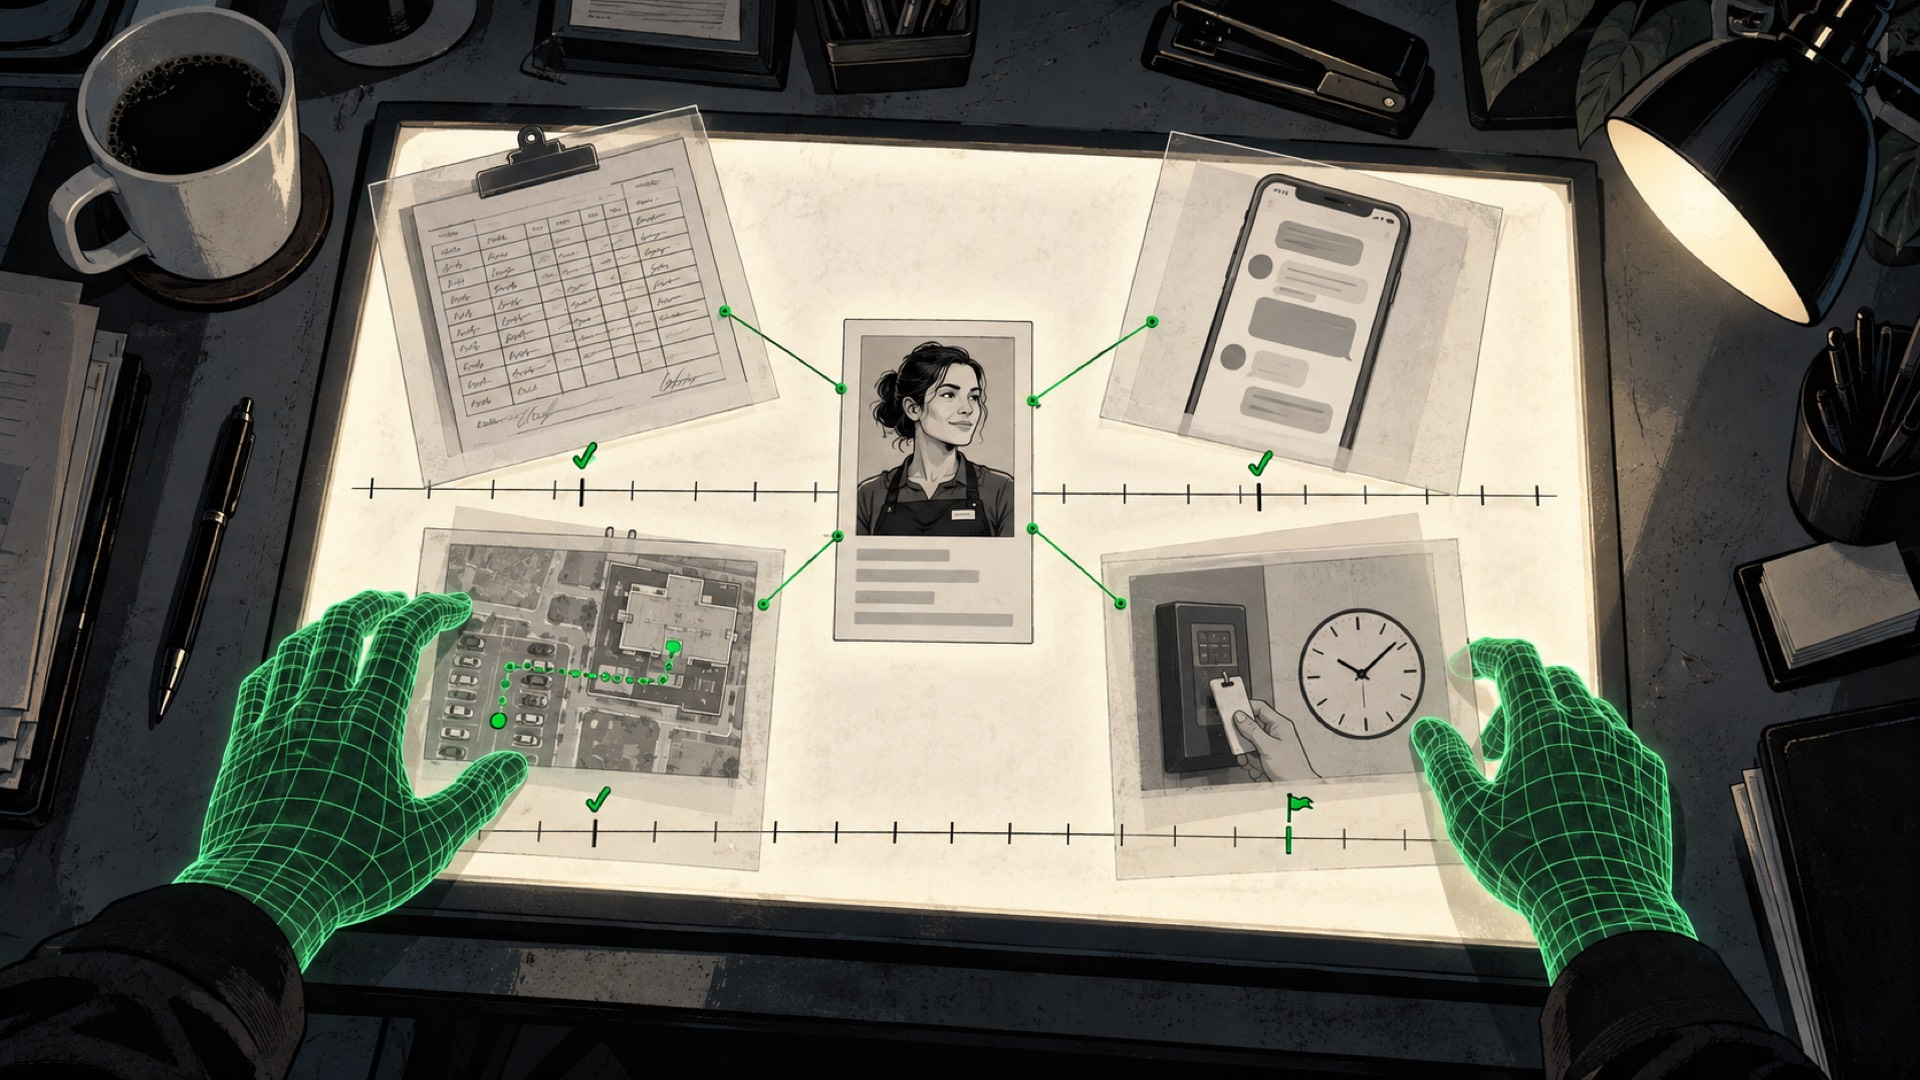
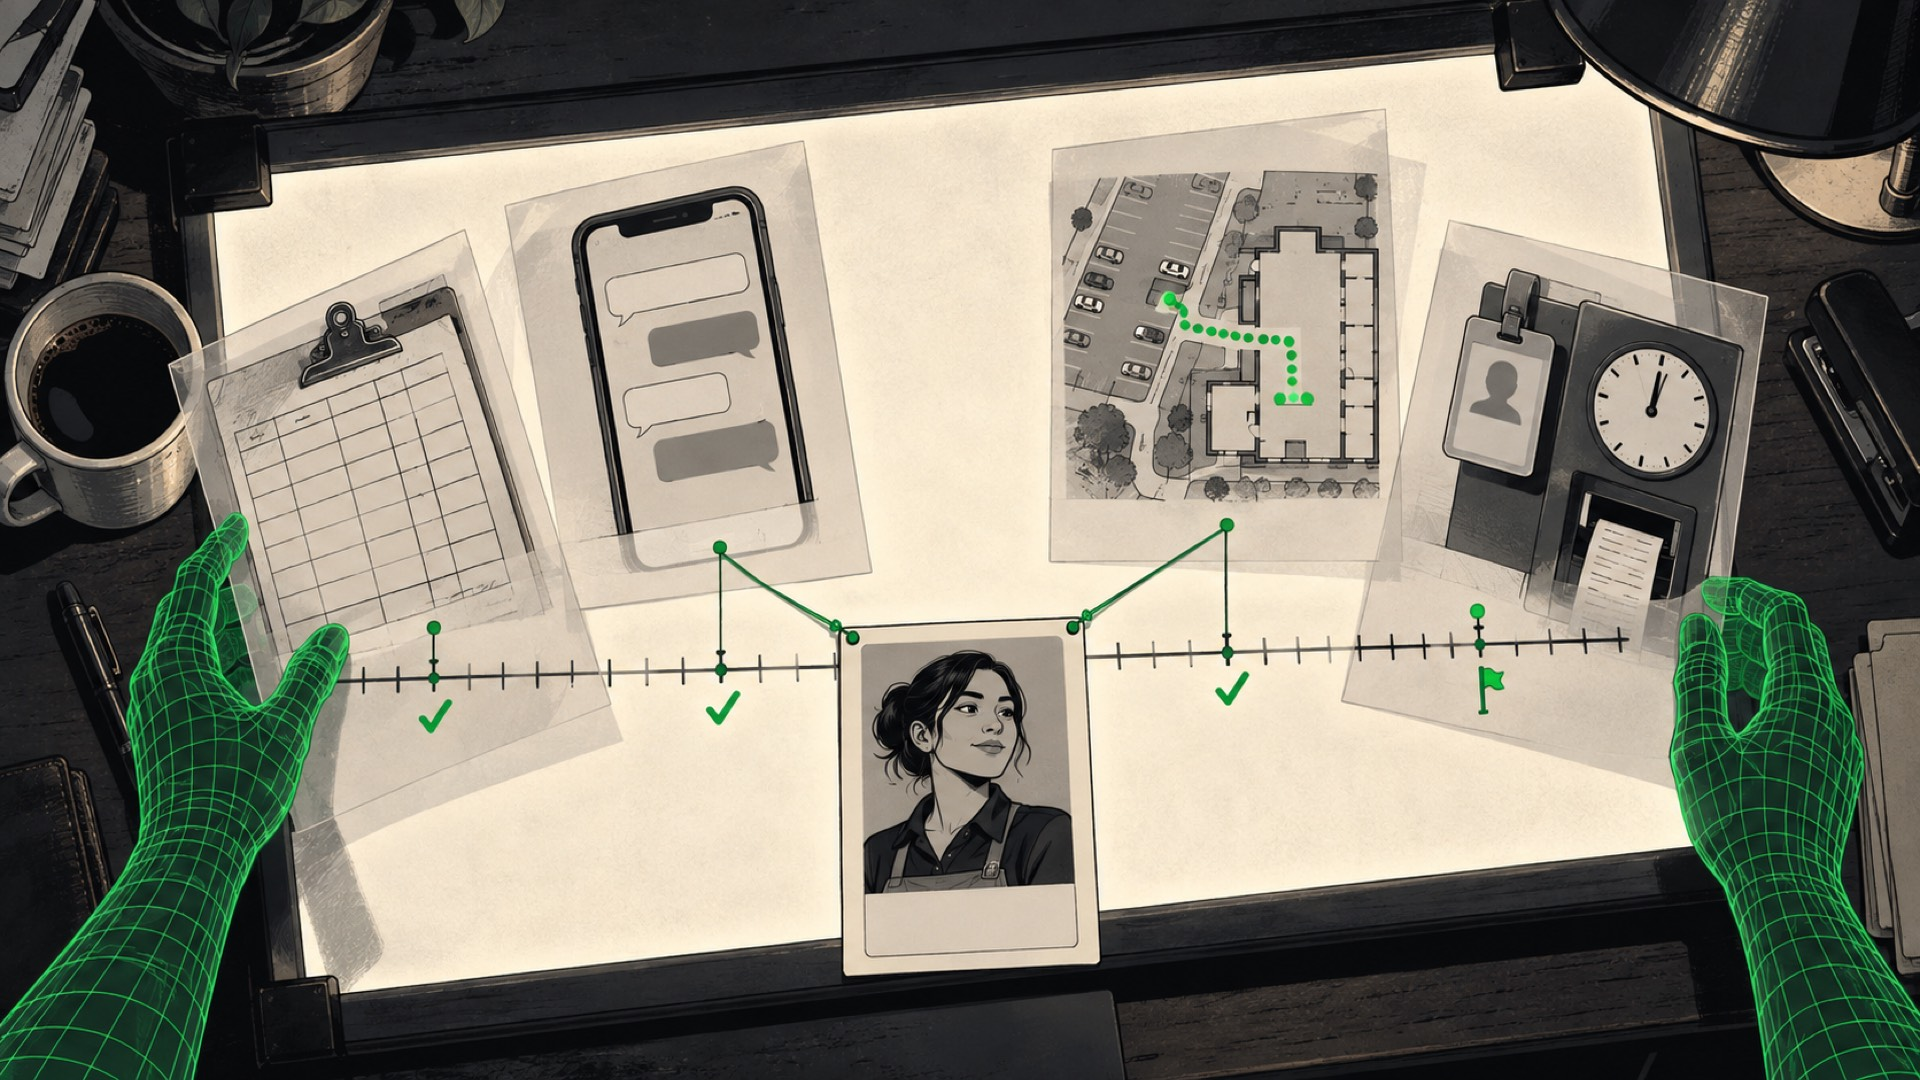
story: end-to-end bridge slide before the product beats; 18 slides
Claude-Session: https://claude.ai/code/session_01WeFBVZdtUQHxNr4TKy9Cv4

diff --git a/story/index.html b/story/index.html
@@ -15,7 +15,7 @@
 <body>
   <header class="chrome">
     <a class="brand" href="../"><img src="../logo-small.svg" alt="">HyperTrack</a>
-    <span class="counter"><span id="cur">01</span> / <span id="tot">17</span></span>
+    <span class="counter"><span id="cur">01</span> / <span id="tot">18</span></span>
   </header>
 
   <main class="deck" id="deck">
@@ -111,9 +111,18 @@
     </section>
 
     <section class="slide">
+      <figure class="frame" data-label="26-end-to-end"><img src="assets/26-end-to-end.jpg" alt="One assembly line from timesheet sources to pay envelopes, a wireframe agent at every station"></figure>
+      <div class="copy">
+        <p class="eyebrow">11 · How HyperTrack solves it</p>
+        <h1>Here's how HyperTrack solves this end to end, with AI at every step.</h1>
+        <p>Ingest, locate, collect, collate, apply the rules, mediate, pay. One line from the clipboard to the pay envelope, and an agent working every station.</p>
+      </div>
+    </section>
+
+    <section class="slide">
       <figure class="frame" data-label="20-digital-worker"><img src="assets/20-digital-worker.jpg" alt="A wireframe digital worker logging into a holographic browser window, data flowing out on a cadence, more windows ghosted behind"><div class="logos"><img src="../logos/tiles/ukg.png" alt="ukg"><img src="../logos/tiles/adp.png" alt="adp"><img src="../logos/tiles/ubeya.png" alt="ubeya"><img src="../logos/tiles/7shifts.png" alt="7shifts"><img src="../logos/tiles/paylocity.png" alt="paylocity"><img src="../logos/tiles/deputy.png" alt="deputy"><img src="../logos/tiles/tempworks.png" alt="tempworks"><img src="../logos/tiles/avionte.png" alt="avionte"><img src="../logos/tiles/rippling.png" alt="rippling"><img src="../logos/tiles/wheniwork.png" alt="wheniwork"></div></figure>
       <div class="copy">
-        <p class="eyebrow">11 · Product</p>
+        <p class="eyebrow">12 · Product</p>
         <h1>Schedules and timesheets auto-ingest, with AI.</h1>
         <p>A digital worker logs into UKG, ADP, Ubeya, 7shifts or whatever your sites already run, in a virtual browser, and pulls punches and schedules out on a cadence. No integration project.</p>
       </div>
@@ -122,7 +131,7 @@
     <section class="slide">
       <figure class="frame" data-label="22-live-map"><img src="assets/22-live-map.jpg" alt="Ops room wall map with geofenced facilities and live worker dots"></figure>
       <div class="copy">
-        <p class="eyebrow">12 · Product</p>
+        <p class="eyebrow">13 · Product</p>
         <h1>Location is tracked in real time.</h1>
         <p>Every worker's phone reports where they actually are. Arrivals, departures and gaps show up on the map while the shift is happening, not at the end of the week.</p>
       </div>
@@ -131,7 +140,7 @@
     <section class="slide">
       <figure class="frame" data-label="23-paper-to-sms"><img src="assets/23-paper-to-sms.jpg" alt="Worker photographing a paper timesheet into a text; nurse taking a call from the agent"></figure>
       <div class="copy">
-        <p class="eyebrow">13 · Product</p>
+        <p class="eyebrow">14 · Product</p>
         <h1>Paper timesheets come in by text. Clock-ins by text and phone call.</h1>
         <p>A photo of the clipboard is enough. When a punch is missing, the agent texts or calls the worker and takes the answer. No app to install, nothing for a clerk to key in.</p>
       </div>
@@ -140,7 +149,7 @@
     <section class="slide">
       <figure class="frame" data-label="25-collate"><img src="assets/25-collate.jpg" alt="Four sources fanned on a lightbox around one shift card: paper timesheet, text thread, GPS trail, kiosk punch, aligned on one timeline"></figure>
       <div class="copy">
-        <p class="eyebrow">14 · Product</p>
+        <p class="eyebrow">15 · Product</p>
         <h1>Every source is collated and compared, shift by shift.</h1>
         <p>The paper timesheet, the conversation with the worker, the phone's location, the UKG punch. Laid on one timeline for the same shift. Where they agree, it's done. Where they don't, that's the exception.</p>
       </div>
@@ -149,7 +158,7 @@
     <section class="slide">
       <figure class="frame" data-label="21-flag-to-formula"><img src="assets/21-flag-to-formula.jpg" alt="Three panels: a flagged shift card, a highlighted clause in a wage order, and the compiled rule on a chalkboard"></figure>
       <div class="copy">
-        <p class="eyebrow">15 · Product</p>
+        <p class="eyebrow">16 · Product</p>
         <h1>Payroll rules are applied to every shift.</h1>
         <p>The agent raises the flag. The flag points at one paragraph in the wage order or the client contract. That paragraph is compiled into one line the engine runs on every shift.</p>
       </div>
@@ -158,7 +167,7 @@
     <section class="slide">
       <figure class="frame" data-label="17-agent-conversation"><img src="assets/17-agent-conversation.jpg" alt="Worker on a loading dock answering a text while a flagged shift resolves"></figure>
       <div class="copy">
-        <p class="eyebrow">16 · Product</p>
+        <p class="eyebrow">17 · Product</p>
         <h1>Discrepancies are mediated agentically.</h1>
         <p>A disputed break, an extra hour, a missing clock-out. The agent takes it to the worker and the supervisor while it is fresh, collects the answers and closes it out with the evidence attached.</p>
       </div>
@@ -167,7 +176,7 @@
     <section class="slide">
       <figure class="frame" data-label="24-upload"><img src="assets/24-upload.jpg" alt="The wireframe digital worker feeding stamped shift cards into a holographic payroll window at dawn"><div class="logos"><img src="../logos/tiles/adp.png" alt="adp"><img src="../logos/tiles/paylocity.png" alt="paylocity"><img src="../logos/tiles/gusto.png" alt="gusto"><img src="../logos/tiles/paychex.png" alt="paychex"><img src="../logos/tiles/rippling.png" alt="rippling"><img src="../logos/tiles/quickbooks.png" alt="quickbooks"></div></figure>
       <div class="copy">
-        <p class="eyebrow">17 · Product</p>
+        <p class="eyebrow">18 · Product</p>
         <h1>Then it goes to payroll. As fast as possible, agentically.</h1>
         <p>The same digital worker logs into ADP, Paylocity or Gusto and uploads the approved hours through the browser the moment the cycle closes. Held shifts wait with their reason. Everyone else gets paid right, on time.</p>
       </div>
@@ -179,6 +188,6 @@
     <button type="button" id="prev" aria-label="Previous">←</button>
     <button type="button" id="next" aria-label="Next">→</button>
   </nav>
-  <script src="deck.js?v=10"></script>
+  <script src="deck.js?v=11"></script>
 </body>
 </html>

diff --git a/story/STORYBOARD.md b/story/STORYBOARD.md
@@ -88,3 +88,6 @@ The same operations office as the digital-worker frame, now at dawn with light c
 
 ### 25 · collate — "Every source is collated and compared, shift by shift."
 Top-down view of a lightbox on an operations desk at night, the lightbox glowing softly. In the centre a single shift card. Fanned around it, four translucent sheets each drawn as a different source and each connected to the centre card by a thin green thread: a photographed paper timesheet on a clipboard with a handwritten-looking grid; a phone with an abstract text-message thread of blank bubbles; a small map tile with a dotted GPS trail from a car park into a building outline; a badge-kiosk punch ticket with a clock face. A single horizontal timeline ruler is drawn across all four sheets with tick marks, and where the ticks line up a small green check sits on the ruler; at one place a tick is offset and a tiny green flag marks the mismatch. Two translucent green wireframe hands, the agent's, slide the sheets into alignment. Around the edge of the desk: a coffee mug, a pen, a stapler, a desk lamp. Only the threads, the checks, the flag and the wireframe hands are green.
+
+### 26 · end-to-end — "Here's how HyperTrack solves it end to end, with AI at every step."
+A wide side-on view of one long assembly line running the full width of the frame, left to right, inside a bright modern workshop, drawn like a cutaway diagram with real depth. Five stations along the line, each worked by a small translucent green wireframe figure: at the first, a badge kiosk, a paper clipboard and a phone feed onto the belt; at the second, a lightbox where sheets are laid over one another and aligned; at the third, a letterpress-style stamping head marks each card as it passes; at the fourth, a figure holds a phone with an abstract text bubble, talking to a worker drawn in the background; at the fifth, the belt runs straight into a holographic browser window and out the far right comes a neat stack of pay envelopes. Overhead, a single continuous green line traces the whole path from the first station to the last. Ordinary human workers and a supervisor watch from the foreground. Only the wireframe figures, the overhead line and the final envelopes' seals are green.

diff --git a/story/README.md b/story/README.md
@@ -1,6 +1,6 @@
 # Protect your revenue — middle-office storyboard deck
 
-Seventeen slides, all illustrated storyboard frames in one language. No UI screenshots, no close slide. Narrative: tech-enabled staffing firms deploy AI faster; AI has done recruiting and matching, the middle office (pay and bill) is next; workers and customers both re-choose you every day, so pay accuracy is revenue protection (frames 01–12). Then the product story in six beats (slides 11–17): data auto-ingests with a digital worker in a virtual browser (real vendor tiles from `logos/tiles/` overlaid), location tracked in real time, paper timesheets and clock-ins by SMS and phone call, every source collated and compared on one timeline, payroll rules applied (flag → clause → compiled rule), discrepancies mediated agentically, then uploaded to payroll agentically through the browser. 
+Eighteen slides, all illustrated storyboard frames in one language. No UI screenshots, no close slide. Narrative: tech-enabled staffing firms deploy AI faster; AI has done recruiting and matching, the middle office (pay and bill) is next; workers and customers both re-choose you every day, so pay accuracy is revenue protection (frames 01–12). Then the product story in six beats (slides 12–18), after a bridge slide showing the whole line end to end with an agent at every station: data auto-ingests with a digital worker in a virtual browser (real vendor tiles from `logos/tiles/` overlaid), location tracked in real time, paper timesheets and clock-ins by SMS and phone call, every source collated and compared on one timeline, payroll rules applied (flag → clause → compiled rule), discrepancies mediated agentically, then uploaded to payroll agentically through the browser. 
 
 Live at https://closeoutcopilot.com/story/. Locally, serve from the repo root so the shared logo and hero sprites load:
 
